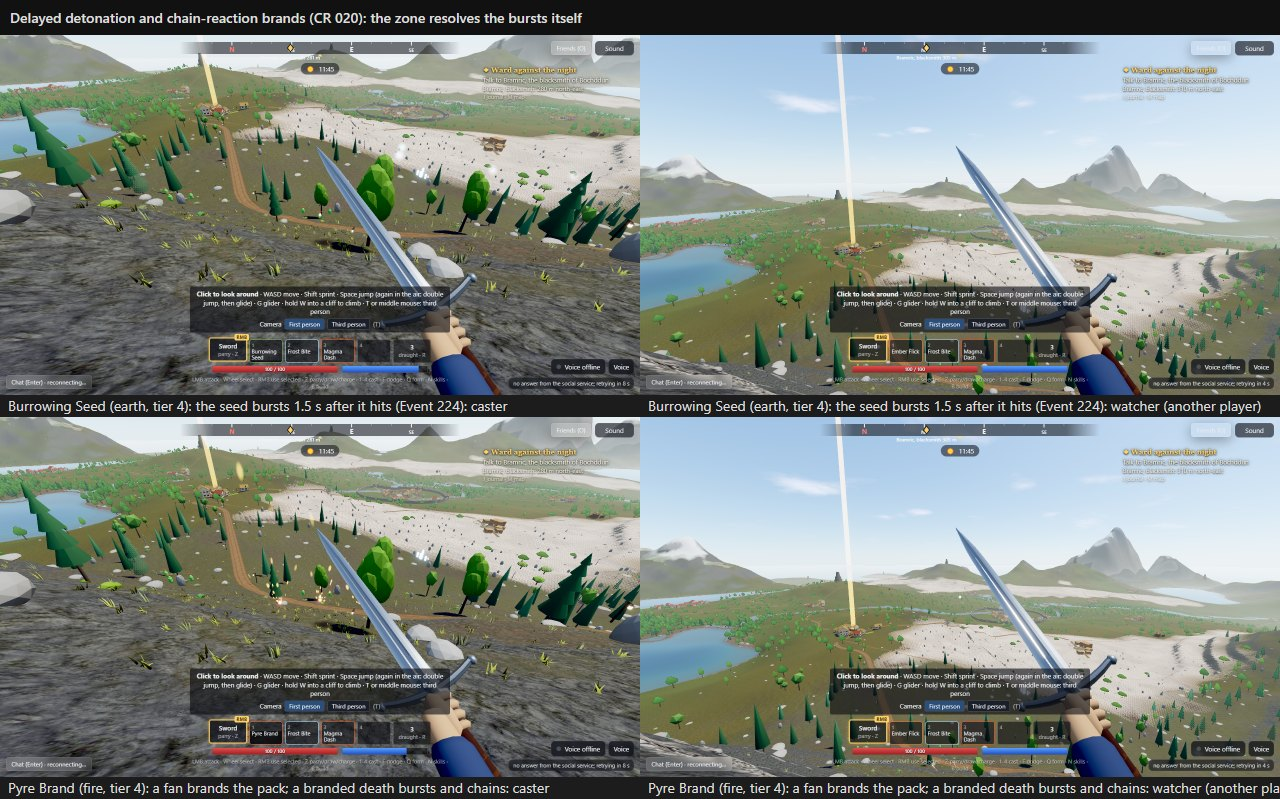
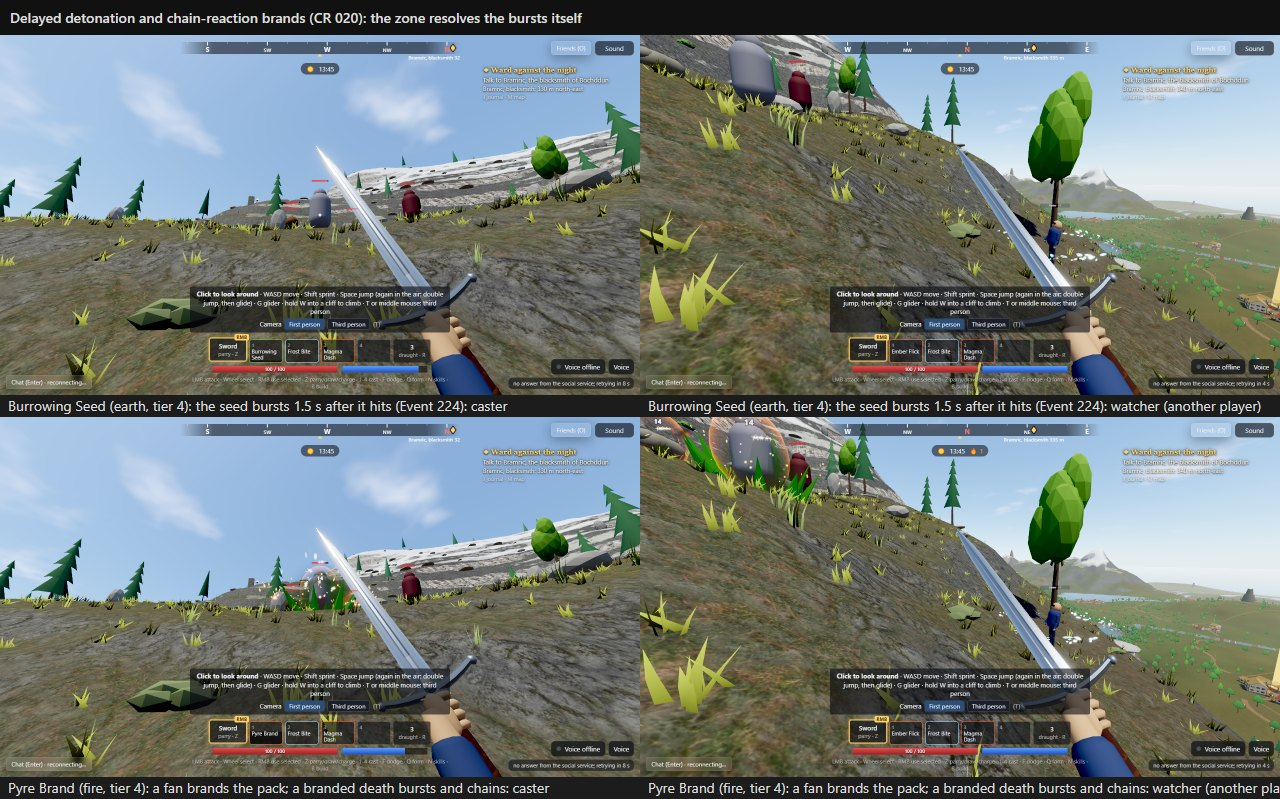
Spell mechanics: evidence sheets (real zone, two clients, training dummies), brighter orbit orbs, allies appear to the side of the line of fire

diff --git a/client/src/combat/fx/engine.ts b/client/src/combat/fx/engine.ts
@@ -1449,7 +1449,10 @@ export class SpellFxEngine {
           cur.z = pos.z + off.z;
           const p = (prev[i] ??= { ...cur });
           this.at(cur.x, cur.y, cur.z, () => {
-            R.trail(v, p, cur, ob.orbRadius * 0.6, 1);
+            R.trail(v, p, cur, ob.orbRadius, 1.6);
+            // the orb itself: a hot core re-emitted every frame (reads as a solid spinning blade of light)
+            glowPool.emit(cur.x, cur.y, cur.z, 0, 0, 0, c.hotH, 0.07, ob.orbRadius * 1.1, 0, 0, SHAPE_GLOW);
+            glowPool.emit(cur.x, cur.y, cur.z, 0, 0, 0, c.mainH, 0.12, ob.orbRadius * 1.8, 0, 0, SHAPE_GLOW);
             if (Math.random() < 0.25) R.burst(cur.x, cur.y, cur.z, [c.hotH, c.mainH], 1, { speed: [0.2, 0.8], life: [0.2, 0.4], size: [0.06, 0.12] });
           });
           p.x = cur.x;

diff --git a/server/zone/internal/combat/summon.go b/server/zone/internal/combat/summon.go
@@ -95,10 +95,10 @@ func (w *World) summon(p *Player, a *Action) {
 	for i := 0; i < max(1, s.Summon.Count); i++ {
 		w.capSummons(p.ID, def, s.Summon.Max)
 		// In front of the caster (a turret where the caster aims, within range).
-		yaw := a.Yaw + float64(i)*0.8
+		yaw := a.Yaw - 0.9 - float64(i)*0.8 // front right, out of the line of fire
 		d := math.Min(2.5, s.Range)
 		if def.Behavior == "turret" {
-			d = w.aimDistance(a.Pos, a.Yaw, a.Pitch, s.Range)
+			d, yaw = w.aimDistance(a.Pos, a.Yaw, a.Pitch, s.Range), a.Yaw
 		}
 		x, z := a.Pos.X-math.Sin(yaw)*d, a.Pos.Z-math.Cos(yaw)*d
 		e := newEnemy(def.Body, p.Level, def.Element, nil, w.place(x, z, def.Body))
